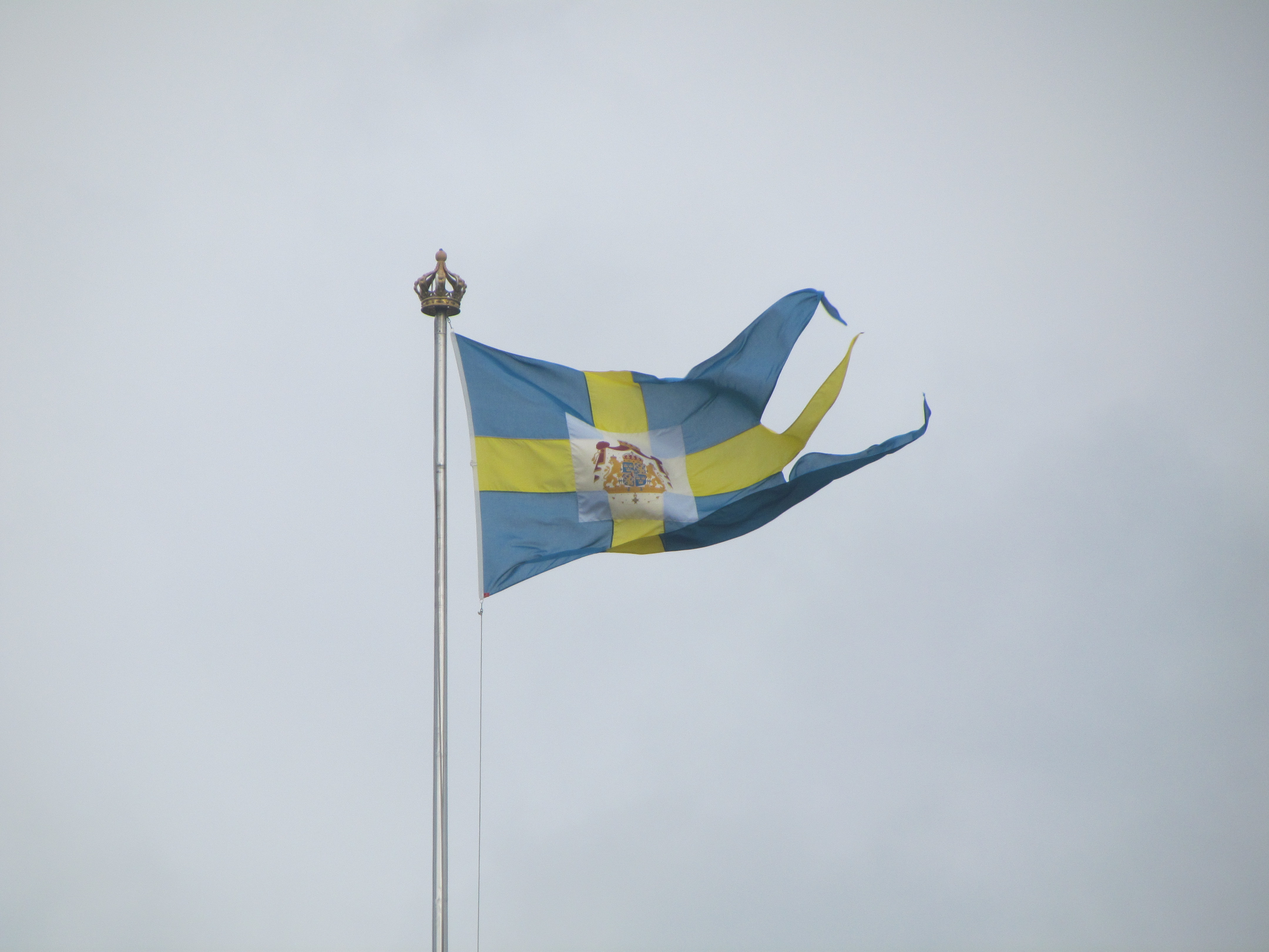
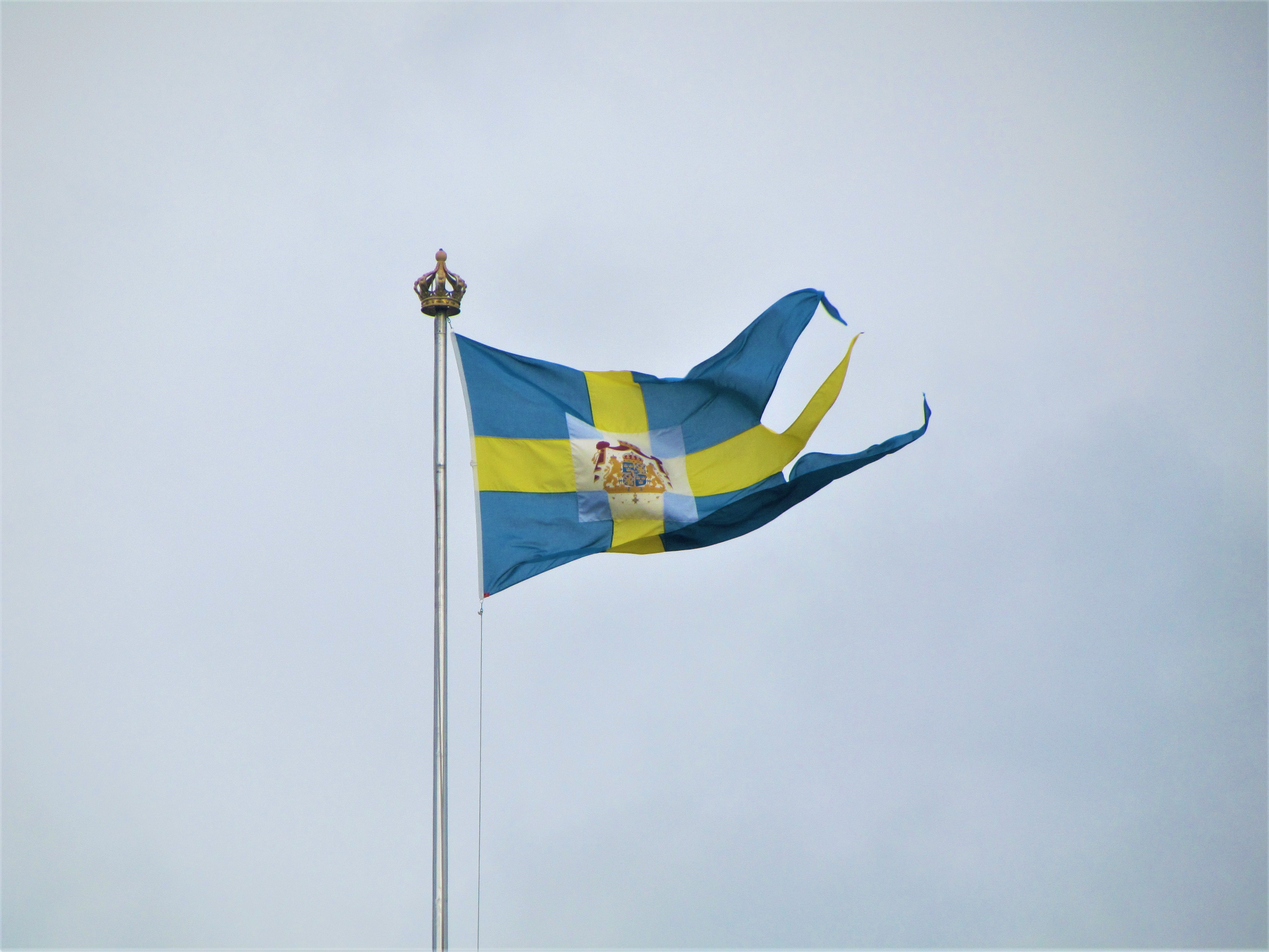
dfgfhgd

Changed region(s): [[0.3438, 0.2806, 0.75, 0.6235], [0.0, 0.9975, 1.0, 1.0], [0.6562, 0.3741, 0.6875, 0.4052]]

diff --git a/attr2.html b/attr2.html
@@ -33,7 +33,7 @@
 
     <div class="attr-area"; style="height: 100vh";>
 
-      <div class="attrsc-branch" style="background: url('./img/bb.jpg') no-repeat 0 -20vw; background-size: cover;">
+      <div class="attrsc-branch" style="background: url('./img/Sweden/IMG_8597.jpg') no-repeat 0 -20vw; background-size: cover;">
       </div>
 
       <div class="attr-title">
